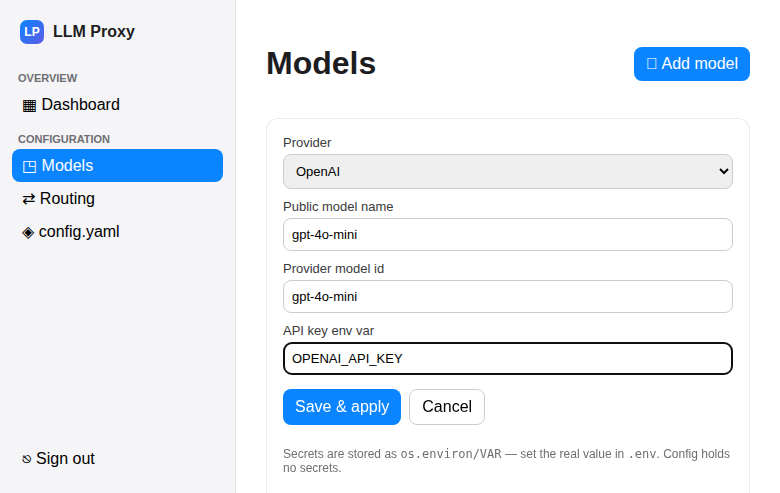
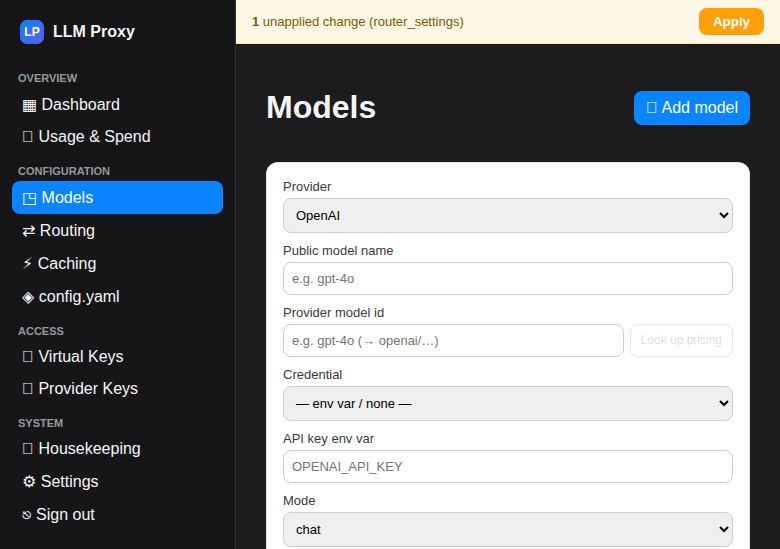
docs: refresh README screenshots for v2 + pin image to 1.12.0
New/updated captures (dark mode): dashboard (KPI + Apply bar), Models v2,
Provider Keys vault, Routing (timeout/cooldown), Settings (catalog sync),
read-only Caching. Pin bumped 1.8.0 -> 1.12.0 (the release with all v2 + the
backup-perms fix + delete guard).

diff --git a/README.md b/README.md
@@ -17,17 +17,17 @@ virtual keys, budgets, usage, and DB housekeeping.
 
 ## The admin UI
 
-![Dashboard](docs/images/dashboard.png)
+![Dashboard — KPI cards with the staged-change Apply bar](docs/images/dashboard.png)
 
 | | |
 |---|---|
-| ![Models](docs/images/models-applied.png) | ![Routing](docs/images/routing.png) |
-| ![Virtual Keys](docs/images/keys.png) | ![Usage & Spend](docs/images/usage.png) |
-| ![Caching](docs/images/caching.png) | ![Housekeeping](docs/images/housekeeping.png) |
+| ![Models — credential / mode / costs / test / health](docs/images/models.png) | ![Provider Keys — encrypted vault](docs/images/provider-keys.png) |
+| ![Routing — strategy, timeout, cooldown, retries](docs/images/routing.png) | ![Settings — LiteLLM catalog sync](docs/images/settings.png) |
+| ![Caching — read-only status](docs/images/caching.png) | ![Usage & Spend](docs/images/usage.png) |
 
-Dark mode included:
-
-![Dark mode](docs/images/dark-mode.png)
+Shown in dark mode (a light theme is included too). The amber **Apply** bar (top)
+appears whenever there are staged changes — one restart applies them all, with
+auto-rollback on failure.
 
 **Screens:** Dashboard (KPI cards) · Usage & Spend · Models (provider CRUD +
 test/health/costs/credentials) · Provider Keys (encrypted vault) · Routing (strategy,

diff --git a/docs/admin-ui.md b/docs/admin-ui.md
@@ -80,7 +80,7 @@ This UI fixes all three by design (guardrails + a single source of truth).
 
 The UI runs as the `llm-proxy-ui` service in the root
 [`docker-compose.yml`](../docker-compose.yml), pulled from GHCR (pinned to an
-immutable release tag, e.g. `ghcr.io/tekgnosis-net/llm-proxy-ui:1.11.0`) — no
+immutable release tag, e.g. `ghcr.io/tekgnosis-net/llm-proxy-ui:1.12.0`) — no
 local build needed. To update, bump the tag (or use `:latest`).
 
 ```bash
